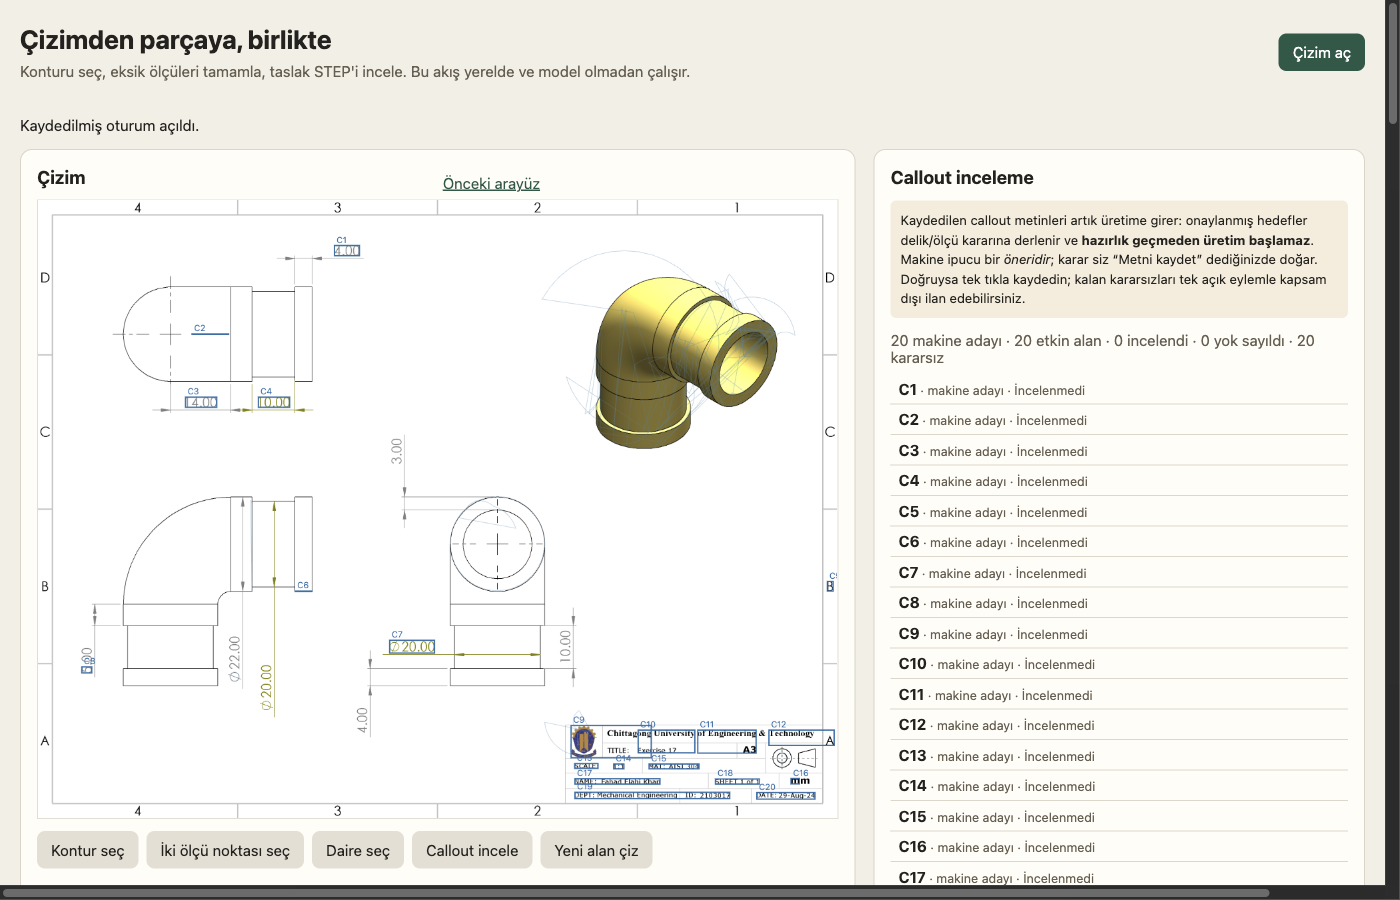
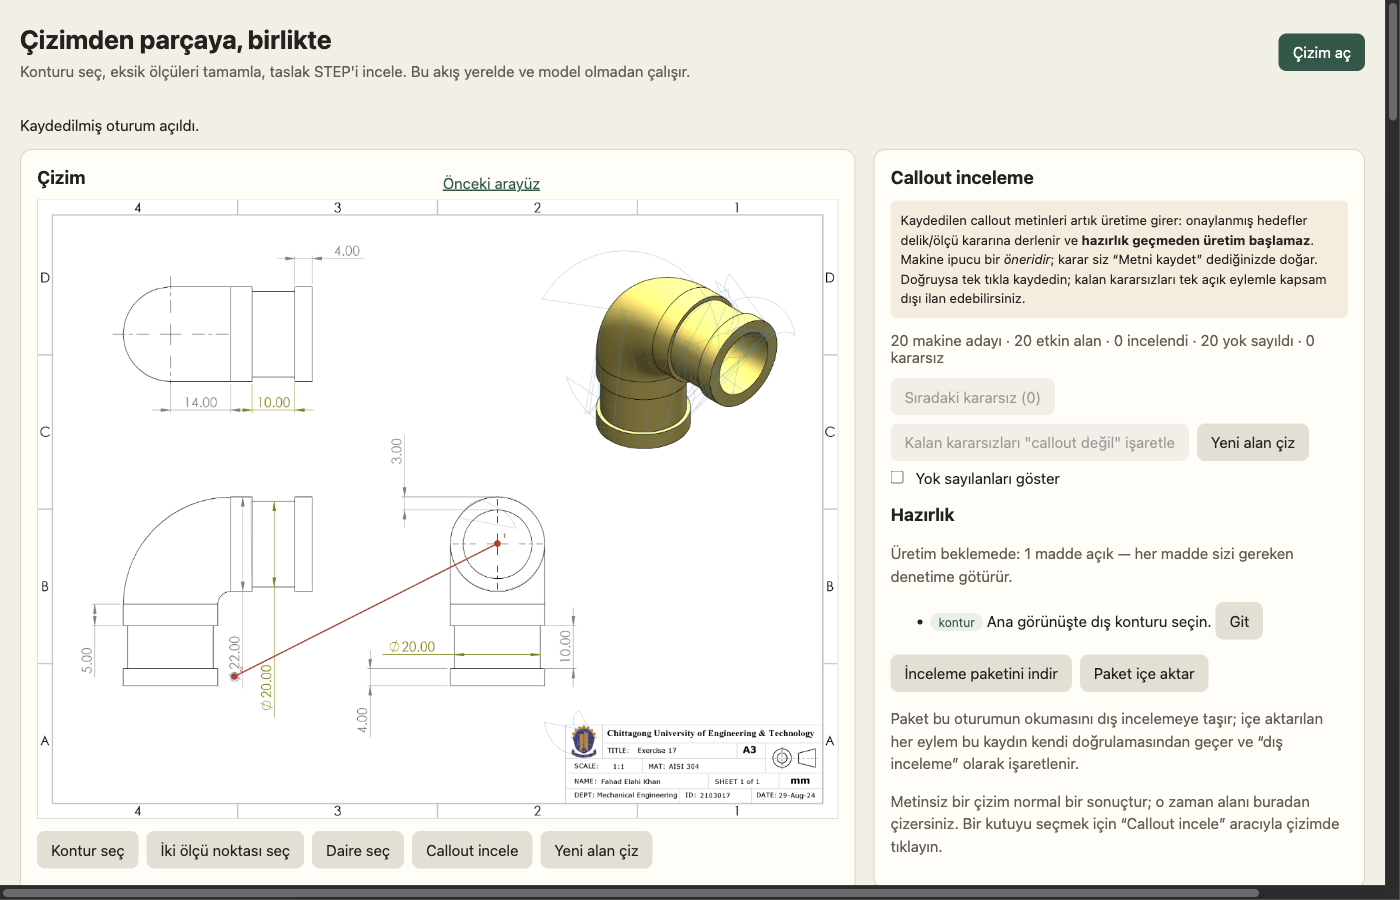
g11: surucu — kontur tiklamasi dogrudan (gorunur nokta); scroll dansi kaldirildi (kanit: diag ile profile_id kaydi)

diff --git a/eval/audits/20261007-guided-g11/g11_runner.py b/eval/audits/20261007-guided-g11/g11_runner.py
@@ -65,12 +65,15 @@ def canvas_point(page: C.Chrome, px_point: list) -> dict:
                page_y: window.scrollY + y}};""")
 
 
-def click_image_point(page: C.Chrome, px_point: list) -> None:
-    found = canvas_point(page, px_point)
-    page.ev(f"window.scrollTo(0, Math.max(0, {found['page_y']} - window.innerHeight / 2));")
-    time.sleep(0.3)
+def click_image_point(page: C.Chrome, px_point: list) -> dict:
+    """Viewport point of an image-space coordinate; click directly when visible (proven path)."""
     target = canvas_point(page, px_point)
+    if not (20 <= target["y"] <= 700 and 30 <= target["x"] <= 1100):
+        page.ev("$('sheet').scrollIntoView({block:'start'});")
+        time.sleep(0.4)
+        target = canvas_point(page, px_point)
     page.click(target["x"], target["y"])
+    return target
 
 
 def click_element(page, selector: str) -> None:
